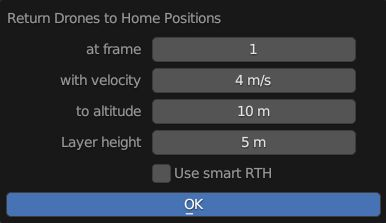
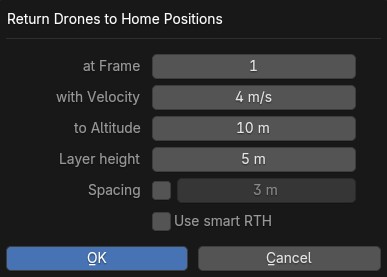
docs: added documentation of custom spacing in takeoff, rth and land

diff --git a/CHANGELOG.md b/CHANGELOG.md
@@ -13,6 +13,10 @@ and this project adheres to [Semantic Versioning](https://semver.org/spec/v2.0.0
   To see progress or predicted remaining time, run Blender from a terminal
   window or press "Toggle System Console" in the "Windows" menu.
 
+- Added custom spacing parameter for the takeoff, return to home and land operators.
+  Users now can override the default spacing that is taken from the proximity warning
+  threshold.
+
 ## [3.10.0] - 2025-03-05
 
 ### Added
